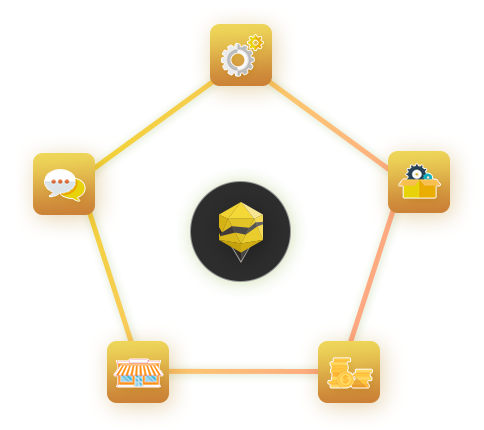
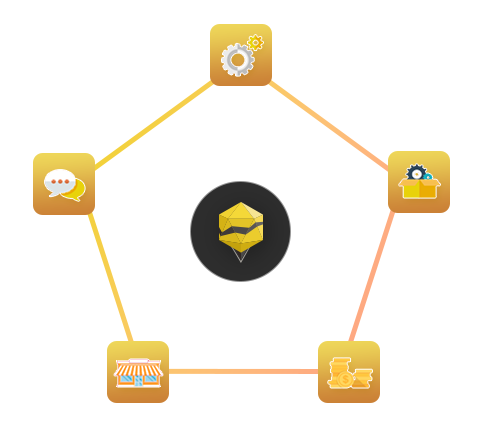
联璧丰巢页面图片和字体问题修改
进行PNG图片模糊与标题字号偏小问题的修改

diff --git a/lianbi_1.0.0/css/honeycomb.css b/lianbi_1.0.0/css/honeycomb.css
@@ -1,5 +1,5 @@
 .honeycomb_wrap {
-	width: 1300px;
+	width: 1318px;
 	margin: 0 auto;
 }
 
@@ -160,7 +160,7 @@
 }
 
 .honeycomb-relax-head .des-eng {
-	font-size: 13px;
+	font-size: 16px;
 }
 
 .honeycomb-relax-body {
@@ -239,9 +239,9 @@
 	-moz-border-radius: 30px;
 	border-radius: 30px;
 	background-color: #fff;
-	-webkit-box-shadow: 1px 1px 20px rgba(48,103,160,.2);
-	-moz-box-shadow: 1px 1px 20px rgba(48,103,160,.2);
-	box-shadow: 1px 1px 20px rgba(48,103,160,.2);
+	-webkit-box-shadow: 0 0 20px rgba(0,0,0,1);
+	-moz-box-shadow: 0 0 20px rgba(0,0,0,1);
+	box-shadow: 0 0 20px rgba(0,0,0,1);
 }
 
 .honeycomb-app-inform .app-download img {
@@ -256,7 +256,6 @@
 	font-size: 40px;
 	line-height: 40px;
 	font-weight: bold;
-	text-shadow: 1px 1px 1px rgba(22,132,183,.3);
 }
 .honeycomb-app-inform .app-name span {
 	font-size: 26px;
@@ -264,7 +263,6 @@
 
 .honeycomb-app-inform .des-china {
 	margin-bottom: 15px;
-	text-shadow: 1px 1px 1px rgba(22,132,183,.3);
 }
 
 .honeycomb-app-inform .des-eng {

diff --git a/lianbi_1.0.0/honeycomb.html b/lianbi_1.0.0/honeycomb.html
@@ -113,7 +113,7 @@
 					<div class="name-eng">联璧蜂巢致力于搭建互联网流量增值服务平台，依托联璧生态，提供优质场景流量，<br>将推广精准化，开拓市场营销的增量市场，并提供高质量的转化率</span></div>
 				</div>
 				<div class="revealator-duration10 revealator-slideup revealator-delay4">
-					<div><a class="more" href="/abouts/">了 解 更 多</a></div>
+					<div><a class="more" href="/abouts/"><img src="images/honeycomb/link_more.png"></a></div>
 				</div>
 			</div>
 			
